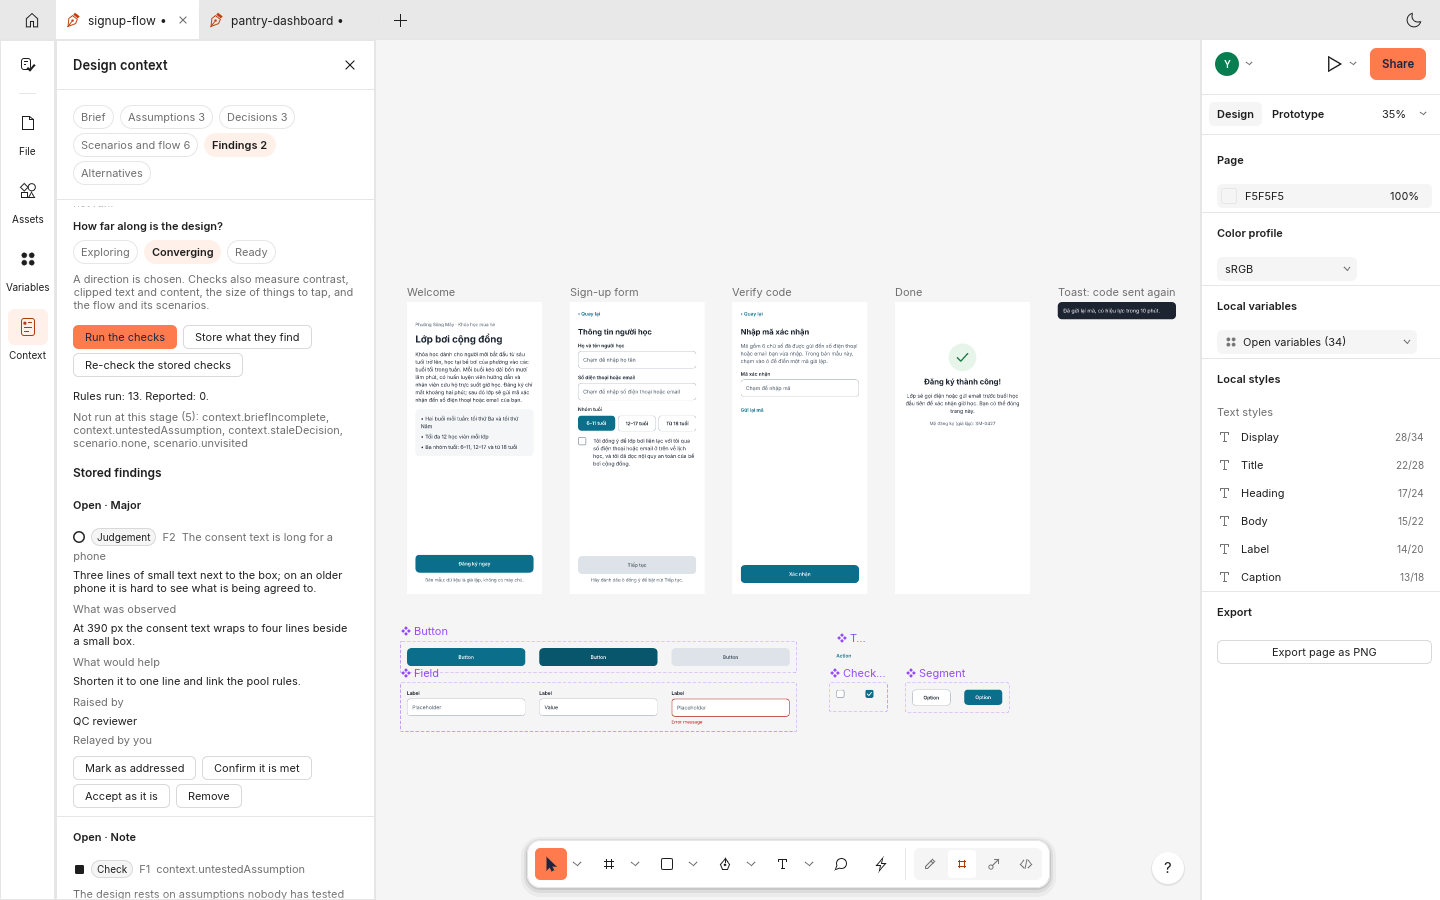
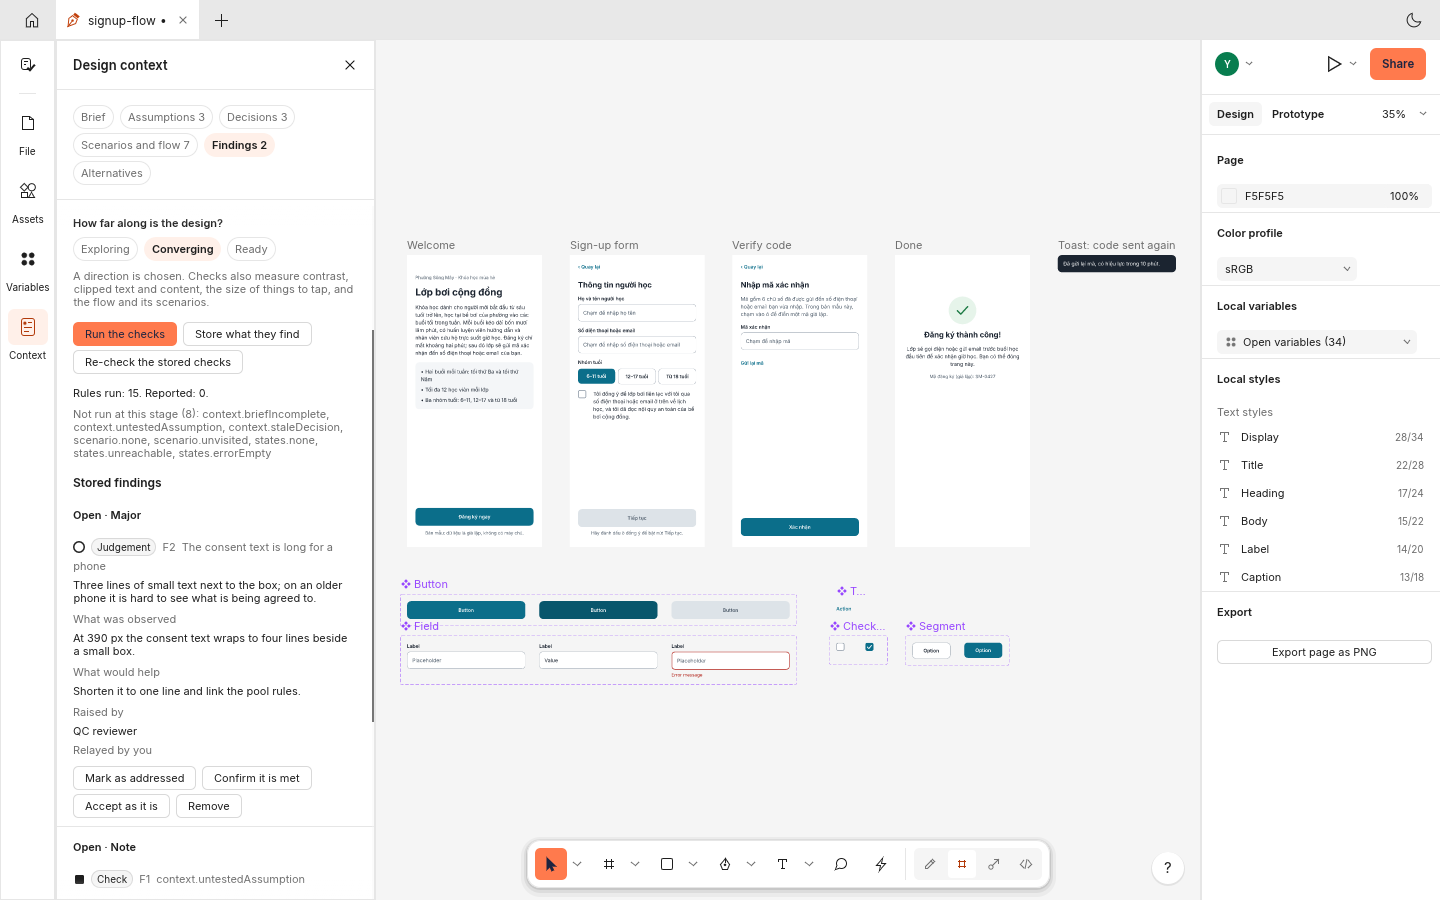
Docs: README screenshots of the sign-up editor and the findings retaken with the declared states
The editor shows seven scenarios and the findings shot the rules a converging file runs now.

Claude-Session: https://claude.ai/code/session_01NT1fFtd1KY9JYJDETFt3rQ

diff --git a/ATTRIBUTION.md b/ATTRIBUTION.md
@@ -13,7 +13,7 @@ MIT OR Apache-2.0. No third-party icon sets are used.
 |---|---|---|---|---|
 | `assets/app-icon/` (all files: `figguremyui.svg`, `figguremyui-small.svg`, `figguremyui-*.png`, `figguremyui.ico`, `hicolor/`) | Figgure My UI contributors | Original work made for Figgure My UI from simple shapes (a screen card and a check card on a tile), see [`assets/app-icon/README.md`](assets/app-icon/README.md); derived files rendered from the masters (`cargo xtask icon`) | MIT OR Apache-2.0, [`assets/app-icon/LICENSE.txt`](assets/app-icon/LICENSE.txt) | Figgure My UI app icon; no third-party material. Replaces FigCraft's chameleon icon, which stays in the repository history only |
 | `docs/images/` (screenshots and exports from upstream: `shot-*.png`, `art-*.png`) | FigCraft contributors | Screenshots of FigCraft showing synthetic demo documents made in FigCraft, and PNG exports of those documents by FigCraft's renderer | MIT OR Apache-2.0 | No third-party artwork |
-| `docs/images/m11-editor-signup.png`, `docs/images/m11-presenter-signup-error.png`, `docs/images/m11-panel-findings.png`, `docs/images/m11-dashboard-1440.png`, `docs/images/m11-dashboard-360.png`, `docs/images/m11-panel-proposals-dark.png` | Figgure My UI contributors | Window screenshots of Figgure My UI (release build of `f47cc033`, under a virtual display) showing the synthetic example files in `examples/`, each state reached by clicks, keys and typing in the app (the proposal in the dark-theme shot was made by a second control connection acting as an agent) | MIT OR Apache-2.0 | Retaken 2026-11-19 after the rename (QC round 2); no third-party artwork, no personal data |
+| `docs/images/m11-editor-signup.png`, `docs/images/m11-presenter-signup-error.png`, `docs/images/m11-panel-findings.png`, `docs/images/m11-dashboard-1440.png`, `docs/images/m11-dashboard-360.png`, `docs/images/m11-panel-proposals-dark.png` | Figgure My UI contributors | Window screenshots of Figgure My UI (release build of `f47cc033`, under a virtual display; `m11-editor-signup.png` and `m11-panel-findings.png` retaken 2026-11-20 from `9f05ba8e` after declared states were added) showing the synthetic example files in `examples/`, each state reached by clicks, keys and typing in the app (the proposal in the dark-theme shot was made by a second control connection acting as an agent) | MIT OR Apache-2.0 | Retaken 2026-11-19 after the rename (QC round 2); no third-party artwork, no personal data |
 | `examples/*.figcraft` | FigCraft contributors | Synthetic demo documents built through FigCraft's command API; invented copy, shapes and vectors drawn from scratch, no images or embedded fonts | MIT OR Apache-2.0 | Text uses Inter (OFL, from craft-fonts or the system); no third-party artwork |
 
 ## Fonts (build input, not in this repository)
